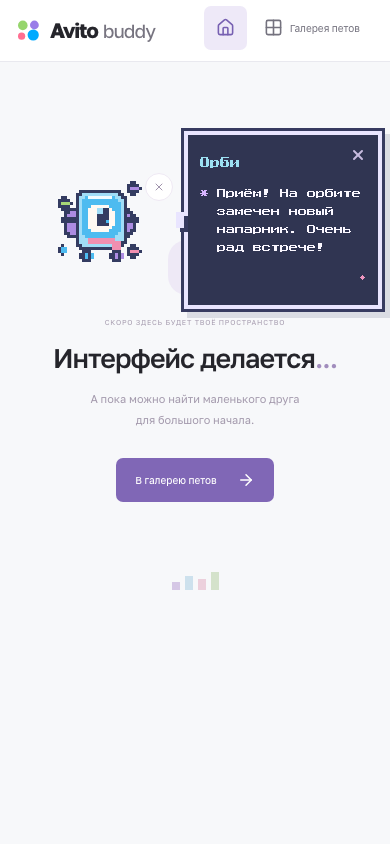
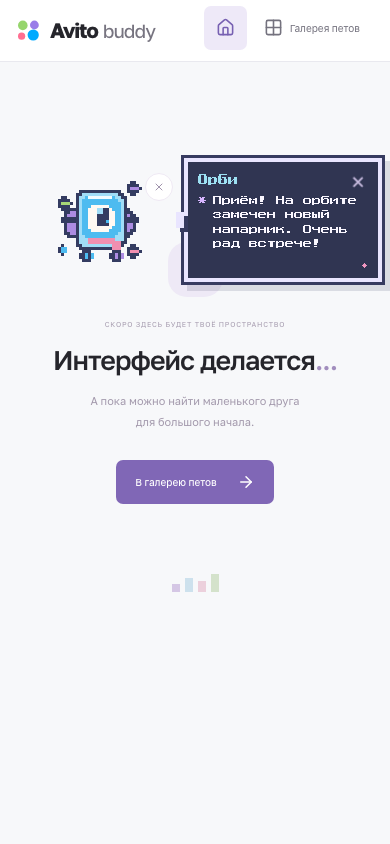
Connect companion gestures and verify the orbit menu

diff --git a/frontend/src/widgets/pet-companion/ui/pet-companion.tsx b/frontend/src/widgets/pet-companion/ui/pet-companion.tsx
@@ -1,5 +1,9 @@
 import { useEffect, useState } from "react";
 import type { CSSProperties } from "react";
+import { useRouter } from "next/navigation";
+import { CompanionOrbitMenu } from "./companion-orbit-menu";
+import { CompanionSettings } from "./companion-settings";
+import { useCompanionActions } from "../model/use-companion-actions";
 import { Volume2, X } from "lucide-react";
 import { PixelPet, usePetPreferences } from "@/entities/pet";
 import { useTypewriter } from "../model/use-typewriter";
@@ -9,13 +13,16 @@ export function PetCompanion() {
   const { chosenPet, paused, selectionVersion } = usePetPreferences();
   const [widgetVisible, setWidgetVisible] = useState(true);
   const [widgetSpeaking, setWidgetSpeaking] = useState(false);
+  const router = useRouter();
   const movement = useCompanionPosition(Boolean(chosenPet) && widgetVisible);
+  const actions = useCompanionActions(movement.ref, setWidgetSpeaking, movement.dragging, widgetVisible);
   useEffect(() => {
     if (selectionVersion > 0) {
       setWidgetVisible(true);
-      setWidgetSpeaking(true);
+      setWidgetSpeaking(false);
+      actions.dismiss();
     }
-  }, [selectionVersion]);
+  }, [selectionVersion, actions.dismiss]);
   const dialogue = useTypewriter(chosenPet?.greeting ?? "", widgetSpeaking && widgetVisible, paused);
   const placement = useDialoguePlacement(movement.ref, widgetSpeaking && widgetVisible,
     movement.style.left, movement.style.top);
@@ -34,6 +41,8 @@ export function PetCompanion() {
             } as CSSProperties
           }
         >
+          {actions.settingsOpen && <CompanionSettings anchor={movement.ref} position={movement.style}
+            onClose={actions.dismiss} onHide={() => { actions.dismiss(); setWidgetVisible(false); }} />}
           {widgetSpeaking && (
             <div ref={placement.ref} className={`widget-bubble pixel-dialogue fixed z-36 w-81 max-w-[calc(100vw_-_16px)] pt-3 pb-2 text-[#faf7ff] bg-[#303552]
             rounded-[0] [box-shadow:0_0_0_3px_#373b60,_6px_6px_0_3px_#373b6026] font-pixel text-[10px] font-normal
@@ -85,15 +94,30 @@ export function PetCompanion() {
           <button
             className={`widget-pet flex flex-col items-center bg-transparent w-full cursor-grab touch-none select-none
             [-webkit-user-select:none] max-sm:[&_.pixel-pet]:w-24 max-sm:[&_.pixel-pet]:h-24 p-0`}
-            onClick={() => {
-              if (!movement.consumeDragClick()) setWidgetSpeaking(!widgetSpeaking);
+            onClick={(event) => {
+              if (movement.consumeDragClick()) { actions.dismiss(); return; }
+              actions.activate(event.detail > 1);
             }}
             {...movement.handlers}
-            title="Перетащите спутника или перемещайте стрелками клавиатуры"
-            aria-label={`Поговорить с ${chosenPet.name}`}
+            onKeyDown={(event) => {
+              if (event.key === "Enter") {
+                event.preventDefault();
+                if (!event.repeat) actions.activate();
+              } else movement.handlers.onKeyDown(event);
+            }}
+            aria-expanded={actions.menuOpen}
+            aria-controls="companion-actions"
+            title="Нажмите для меню. Двойной клик или два Enter — реплика. Можно перетаскивать."
+            aria-label={`Действия спутника ${chosenPet.name}`}
           >
             <PixelPet pet={chosenPet} size={128} paused={paused} />
           </button>
+          <CompanionOrbitMenu anchor={movement.ref} position={movement.style} open={actions.menuOpen}
+            onAction={(action) => {
+              if (action === "chat") actions.chat();
+              if (action === "settings") actions.settings();
+              if (action === "wardrobe") { actions.dismiss(); router.push("/pets"); }
+            }} />
         </div>
       )}
       {chosenPet && !widgetVisible && (

diff --git a/CONTEXT.md b/CONTEXT.md
@@ -243,3 +243,13 @@
 
 - Пользователь уточнил: все изменения петов/Next.js должны оставаться в main, а запускать нужно существующую ветку landing. Предыдущая рекомендация продолжать в dev отменена. Коммит журнала из dev перенесён в main; прикладные изменения уже были в main и origin/main.
 - landing содержит отдельную реализацию портала на Vite и имеет независимую историю. Она не сливается с main. Сервер Next.js остановлен, его сгенерированные артефакты перенесены во временную папку вне репозитория, чтобы не загрязнять landing. Для запуска landing зависимости устанавливаются по её собственному lockfile.
+
+
+### 2026-11-11 — Агент: Codex — Пиксельное меню по дуге
+
+- **Запрос:** по одиночному тапу раскрывать три пиксельных круга по дуге без полосы: чат, гардероб, настройки. Прежнюю реплику открывать двойным кликом/двумя Enter.
+- **Реализация:** CompanionOrbitMenu и собственные пиксельные SVG-иконки, диаметр 56/48 px, цвета в палитре Орби. useOrbitPlacement разворачивает дугу в свободный квадрант и удерживает кнопки/подписи в окне. Tailwind transition даёт плавный вылет/масштабирование с задержками 0/40/80 мс; закрытие идёт в обратном порядке. Линии между кнопками нет.
+- **Жесты:** useCompanionActions отличает одиночную активацию от двойной (включая native click detail и два Enter, без реакции на удерживание клавиши). Во время раскрытия кнопки inert, чтобы не перехватить второй клик; при reduced motion доступны сразу. Drag закрывает меню и не вызывает реплику. Выбор персонажа больше не открывает текст автоматически.
+- **Действия:** чат открывает текущую подготовленную реплику, гардероб переходит в /pets, настройки — окно общей паузы анимаций и скрытия пета. AI и одежда не реализовывались. Escape закрывает окна с возвратом фокуса, клик снаружи закрывает меню; Tab с пета ведёт к его пунктам. Настройки получают фокус после размещения окна.
+- **Проверки:** Next build прошёл; Steiger — 0 ошибок и прежние 6 рекомендаций. Новый Playwright-сценарий проверяет одиночный/двойной клик, реальные тап/двойной тап, два Enter, Tab/Escape, три действия, drag, края и reduced motion на 1440/390/320 px. Отдельно прошли регрессии реплики, мышиного/сенсорного перетаскивания и всей галереи на шести ширинах. Ошибок браузера нет. Реальное изменение transform проверено в начале, середине и конце плавного раскрытия.
+- **Материалы:** frontend/design/captures/verify-orbit-menu.mjs, orbit-menu-verification.json, orbit-menu-*.png, orbit-menu-motion-*.png. Существующие сценарии адаптированы к двойному клику. Спрайты, ID, избранное и положение пета не менялись. Код остаётся в main; отдельный сервер landing не затрагивается.

diff --git a/frontend/README.md b/frontend/README.md
@@ -60,8 +60,8 @@ Dev и production-сервер по умолчанию доступны на htt
 
 Оригинальный Орби рисуется в `entities/pet/lib/mascot-sprites.ts` на 32×32 с боковыми деталями, ножками и шарфом. Его четыре исходных кадра сохраняются. Вариации `orbi-*` рисуются отдельно на 64×64: `orbi-base.ts`, `orbi-sprites.ts`, `orbi-details.ts`, `orbi-detail-painter.ts`. Они парят без конечностей. Данные и палитры — в `entities/pet/config/`.
 
-Избранное хранится в `buddy-favorites`, выбранный спутник — в `buddy-pet`, положение — в `buddy-position`. Спутника можно перетаскивать мышью/пальцем или двигать стрелками. По клику слева открывается пиксельная реплика с печатью по буквам; у краёв окно меняет сторону. Кнопка «Показать сразу» завершает печать. При reduced motion или паузе весь текст виден сразу.
+Избранное хранится в `buddy-favorites`, выбранный спутник — в `buddy-pet`, положение — в `buddy-position`. Спутника можно перетаскивать мышью/пальцем или двигать стрелками. Одиночный клик/тап раскрывает три пиксельных кружка по дуге: чат, гардероб и настройки. Двойной клик/тап или два Enter открывают пиксельную реплику с печатью по буквам; у краёв окно меняет сторону. Кнопка «Показать сразу» завершает печать. При reduced motion или паузе весь текст виден сразу.
 
-UI-проверки: `design/captures/verify-next-migration.mjs`, `verify-pixel-dialogue.mjs`, `verify-companion-drag.mjs`. Используют Playwright из локальной установки design-studio; при другом окружении укажи установленный Playwright в import.
+UI-проверки: `design/captures/verify-next-migration.mjs`, `verify-pixel-dialogue.mjs`, `verify-companion-drag.mjs`, `verify-orbit-menu.mjs`. Используют Playwright из локальной установки design-studio; при другом окружении укажи установленный Playwright в import.
 
 Общие требования — `../AGENTS.md`, дизайн — `../DESIGN.md`, история — `../CONTEXT.md`.

diff --git a/PRODUCT.md b/PRODUCT.md
@@ -26,3 +26,6 @@ AI-buddy — рабочая оболочка для стажёра Авито с
 
 
 Текущий технологический стек по запросу пользователя: Next.js App Router + React + TypeScript + Tailwind CSS. Маршруты `/` и `/pets` обслуживает Next.js; FSD внутри `frontend/src` сохранён с префиксами `_app` и `_pages`. Отдельные CSS-файлы компонентов удалены.
+
+
+Взаимодействие со спутником: одиночный тап раскрывает три пиксельных кружка по дуге без линии — чат, гардероб, настройки. Двойной клик/тап или два Enter на пете открывают прежнюю реплику. Чат пока показывает подготовленный текст, гардероб ведёт в галерею, настройки позволяют поставить анимации на паузу и скрыть спутника.
